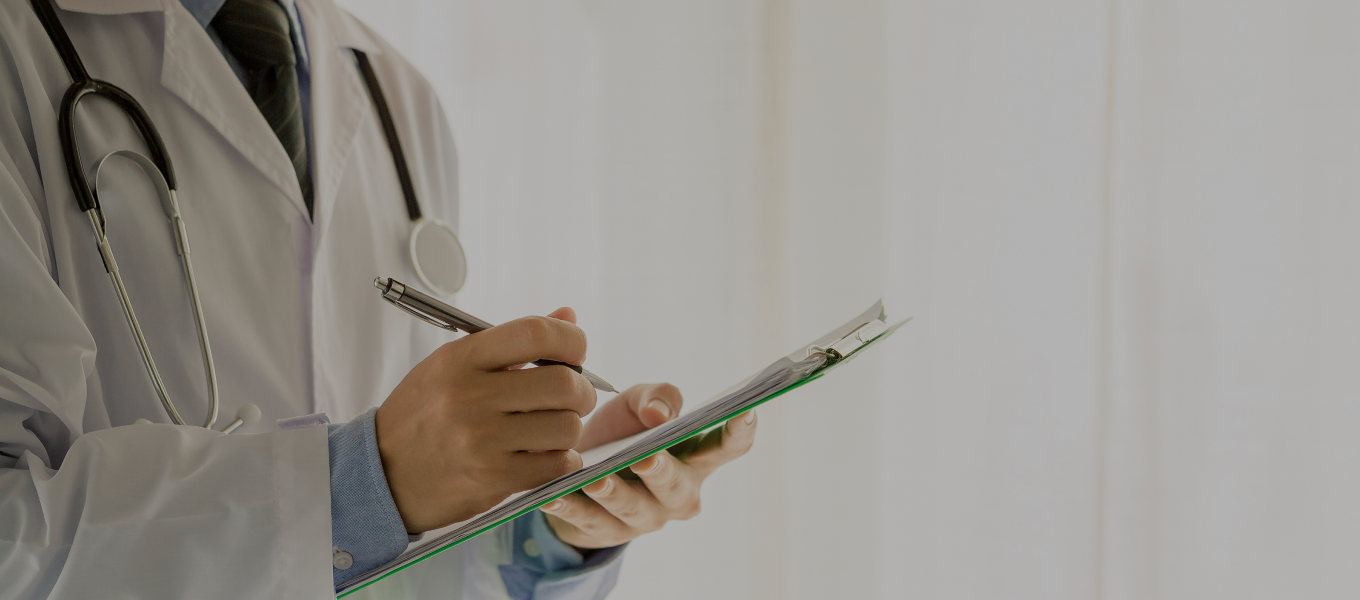
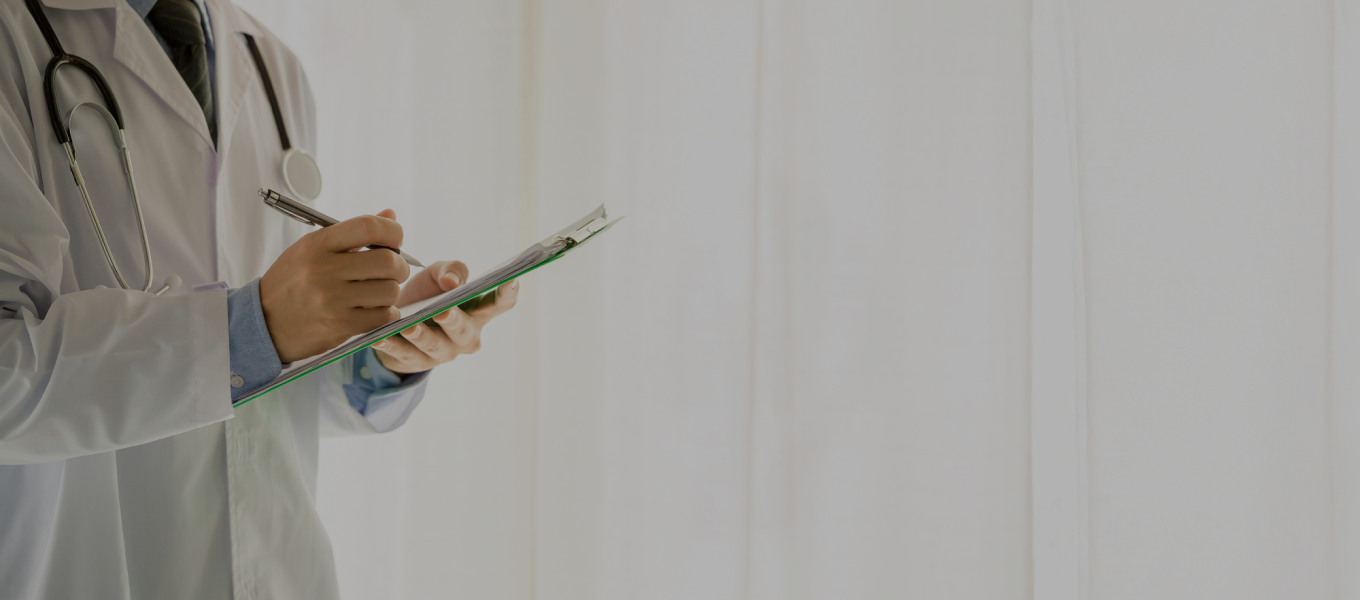
panel 이미지 교체, 키워드, 링크 추가, partners 로고 애니메이션 수정

Changed region(s): [[0.0, 0.0, 0.6794, 1.0], [0.5559, 0.0, 0.5868, 0.09]]

diff --git a/src/pages/Home/Test.js b/src/pages/Home/Test.js
@@ -83,6 +83,20 @@ const Test = () => {
   const [currentSlide, setCurrentSlide] = useState(0);
   const [opacity, setOpacity] = useState(1);
 
+  const imagePaths = [
+    logo01148_372, image8149_431, image8149_433, image8149_435, image8149_437,
+    image15149_461, image149_449, image149_451, image149_445, image156_466,
+    image156_475, image158_584, image16158_586, logo1158_588, image158_590,
+    image158_592, image158_594, image158_596, image158_598, image20158_600,
+    image158_602, image158_609, image16158_611, logo1158_613, logo1161_860,
+    image158_615, image158_617, image158_619, image158_621, image20158_625,
+    image158_623, image161_853, image161_835, image161_837, logo1161_839,
+    image161_856, image161_849, image161_841, logo161_861, image161_851,
+    image161_843, image161_847, image161_845
+  ]
+
+  
+
   const slides = [
     {
       image: MedicalDiscussionImage2,
@@ -145,6 +159,9 @@ const Test = () => {
       title1: "평등한 치료의 기회를 향한",
       title2: "의약사업",
       description: "수많은 사람들이 난치병과 희귀질환으로 고통 받고 있지만 희귀질환을 진단하는 것은쉽지 않을 뿐더러 치료제를 구하는 것은 더더욱 어렵습니다.\n리퓨어는 환자의 아픔과 고통을 이해하고 해결하기 위해 최선을 다할 것입니다.",
+      keyword : ["의약품 수입ㆍ유통", "위탁 개발 생산","신약개발"],
+      objectPosition : '5%',
+      link:'/business-medicine'
     },
     {
       image: panel2,
@@ -152,6 +169,9 @@ const Test = () => {
       title1: "반려동물의 건강하고 행복한 삶을 위한",
       title2: "동물사업",
       description: "반려동물을 키우는 가구가 급속도로 늘어나는 추세지만 여전히 반려동물을 제대로 케어해주지 못하고 있습니다.\n반려동물이 건강하게 우리 곁에 머물 수 있도록 정확한 진단을 바탕으로 동물의약품과 식품, 서비스를 제공합니다.",
+      keyword : ["의약품 수입ㆍ유통", "의약부외품 수입ㆍ유통", "동물 식물 수입ㆍ유통", "동물 의료기기 수입ㆍ유통"],
+      objectPosition : '43%',
+      link:'/business-animal'
     },
     {
       image: panel3,
@@ -159,6 +179,9 @@ const Test = () => {
       title1: "삶의 질을 높이는 스마트한 건강관리",
       title2: "헬스케어사업",
       description: "의료인과 만성 질환자를 온라인으로 연결해주는 헬스케어 플랫폼으로 고령화와 잘못된 생활습관으로 인해 급속하게 늘고있는\n만성질환자에게 리퓨어는 의료 네트워크를 활용하여 복약, 운동, 식이, 생활 습관 전반에 대한 통합 멘토링을 제공합니다.",
+      keyword : ["질환관리 플랫폼", "원격진료 플랫폼","디지털치료제"],
+      objectPosition : '40%',
+      link:'/business-healthcare'
     },
     {
       image: panel4,
@@ -166,6 +189,9 @@ const Test = () => {
       title1: "인류 건강을 책임지기 위한 신속정확한",
       title2: "진단사업",
       description: "정확한 진단은 오진을 줄이고 병증에 올바르게 대처할 수 있게 합니다.\n리퓨어의 신속하고 정확한 진단은 치료 및 골든타임을 놓치지 않도록 유전자, 오믹스, IT기반 등의 검사로 인류를 책임집니다.",
+      keyword : ["유전자 검사", "다중오믹스 플랫폼","진단시약ㆍ기기"],
+      objectPosition : '5%',
+      link:'/business-dig'
     },
   ];
   
@@ -229,7 +255,7 @@ const Test = () => {
               key={index}
               onClick={() => handleSetSlide(index)}
               className={`w-4 h-4 rounded-full cursor-pointer ${
-                index === currentSlide ? 'bg-blue-500' : 'bg-gray-400'
+                index === currentSlide ? 'bg-blue-500' : 'bg-white'
               }`}
             ></div>
           ))}
@@ -247,7 +273,7 @@ const Test = () => {
       </div>
 
 {/*패널 */}
-<div className="absolute -translate-x-1/2 left-1/2 top-[354px] max-w-[1920px] min-w-[1920px] flex flex-row items-center justify-center gap-[18px] overflow-hidden  whitespace-pre-wrap" style={{width: "100%"}}>
+<div className="absolute -translate-x-1/2 left-1/2 top-[354px] max-w-[1920px] min-w-[1920px] flex flex-row items-center justify-center gap-[18px] overflow-hidden whitespace-pre-wrap" style={{width: "100%"}}>
   {/* 큰 패널 */}
   {panels.map((panel, index) => {
     const isSelected = selectedPanel === index;
@@ -255,41 +281,65 @@ const Test = () => {
     const isRight = index > selectedPanel;
 
     return (
+      
       <div
         key={index}
-        className={`relative ${
+        className={`relative h-[600px] ${
           isSelected
-            ? "w-[1360px] h-[600px]"
-            : "w-[180px] h-[600px]"
-        } transition-all duration-500 transform ${
-          isLeft
-            ? `-translate-x-[${(selectedPanel - index) * 220}px]`
-            : isRight
-            ? `translate-x-[${(index - selectedPanel) * 220}px]`
-            : "translate-x-0"
-        }`}
+            ? "w-[1360px]"
+            : "w-[185px]"
+        } transition-all duration-1000 overflow-hidden`}
         onClick={() => handlePanelClick(index)}
       >
+        
         {/* 패널 이미지 */}
-        <img
+        {/* <img
           className="absolute w-full h-full object-cover"
           src={isSelected ? panel.image : panel.smallImage}
           alt={`Panel ${index + 1}`}
-        />
+        /> */}
+
+
+        {isSelected && (
+          <Link to = {panel.link} >
+          <img
+            className="absolute w-full h-full object-cover"
+            src={panel.image}
+            alt={`Panel ${index + 1}`}
+            style={{
+              opacity: isSelected ? 1 : 0,
+              transition: 'opacity 1s ease, transform 1s ease', // opacity와 transform에 대한 전환 추가
+              transform: isSelected ? 'scale(1)' : 'scale(1)', // 확대 효과 추가
+            }}
+          />
+          </Link>
+        )}
+        {/* 작은 이미지 */}
+        {!isSelected && (
+            <img
+              className="absolute h-full w-[1360px] overflow-hidden"
+              //src={panel.smallImage}
+              src={panel.image}
+              alt={`Panel ${index + 1}`}
+              style={{
+                opacity: isSelected ? 0 : 1,
+                objectFit: 'cover', // 이미지가 요소를 완전히 채우도록 설정
+                objectPosition: panel.objectPosition, // 보이도록 할 이미지의 위치 조정 (필요에 따라 수정)
+                transform: 'scale(1)', // 기본 크기 유지
+              }}
+            />
+        )}
+
          {/* 설명 - 오른쪽 상단 */}
          {isSelected && (
           
           <div className="absolute right-[60px] top-[60px] w-[1240px] flex flex-row items-center justify-end">
           <div className="flex flex-row items-center justify-start gap-[10px]">
-            <div className="flex flex-row items-center justify-center py-[6px] px-[15px] border-[2px] border-solid border-[#fff] rounded-[50px]">
-              <div className="text-[14px] leading-[20px] font-['Pretendard'] font-bold text-[#fff] whitespace-nowrap">의약품 수입 유통</div>
-            </div>
-            <div className="flex flex-row items-center justify-center py-[6px] px-[15px] border-[2px] border-solid border-[#fff] rounded-[50px]">
-              <div className="text-[14px] leading-[20px] font-['Pretendard'] font-bold text-[#fff] whitespace-nowrap">위탁 개발 생산</div>
-            </div>
-            <div className="flex flex-row items-center justify-center py-[6px] px-[15px] border-[2px] border-solid border-[#fff] rounded-[50px]">
-              <div className="text-[14px] leading-[20px] font-['Pretendard'] font-bold text-[#fff] whitespace-nowrap">신약개발</div>
-            </div>
+            {panel.keyword.map((keyword,index) => (
+              <div key = {index} className="flex flex-row items-center justify-center py-[6px] px-[15px] border-[2px] border-solid border-[#fff] rounded-[50px]">
+                <div className="text-[14px] leading-[20px] font-['Pretendard'] font-bold text-[#fff] whitespace-nowrap">{keyword}</div>
+              </div>
+            ))}
           </div>
           
           <div className="absolute -translate-x-1/2 left-[calc(50%+220px)] top-[52px] w-[800px] text-[15px] font-['Pretendard'] text-[#fff] text-right">
@@ -305,22 +355,12 @@ const Test = () => {
           //   <img src={ic_arrow} />
           // </div>
             <div className="absolute left-[60px] bottom-[60px] text-white flex flex-col items-start justify-center">
-                <div className="text-[50px] font-['Pretendard'] font-extrabold text-[#fff] h-[64px]">{panel.title1}</div>
+                <div className="text-[50px] font-['Pretendard'] font-extrabold text-[#fff] h-[64px] text-nowrap">{panel.title1}</div>
                 <div className="flex flex-row items-center justify-start gap-[24px] h-[64px]">
                     <div className="text-[50px] font-['Pretendard'] font-extrabold text-[#fff] ">{panel.title2}</div>
                     <img width="54" height="54" src={ic_arrow}></img>
                 </div>
             </div>
-
-
-
-
-
-
-
-
-
-
         )}
       </div>
     );
@@ -339,163 +379,20 @@ const Test = () => {
 
      {/* footer */}
     <div className="w-[1920px] flex flex-row items-start justify-center overflow-hidden">
-      <div className="flex-1 flex flex-row items-start justify-center py-[24px] px-[160px] bg-[#fff] overflow-hidden">
-        <div id='partners' className="flex-1 flex flex-row items-center justify-center">
-          {/* <div className="h-[100px] flex flex-row items-center justify-center pt-0 pr-0 pb-0 pl-[100px]">
-            <div className="flex flex-col items-center justify-center">
-              <div className="w-[48px] h-[48px] shrink-0 flex flex-row items-center justify-center border-[1px] border-solid border-[#122e70] rounded-[28px]">
-                <div className="relative w-[24px] h-[24px] shrink-0 overflow-hidden">
-                  <div className="absolute left-0 top-0 w-[24px] h-[24px] text-[20px] leading-[140%] font-['Inter'] font-bold text-[#122e70] text-center flex flex-col justify-center">←</div>
-                </div>
-              </div>
+      <div className="flex-1 flex flex-row items-center justify-start py-[10px] px-[160px] bg-[#fff] overflow-hidden">
+        <div className="flex-1 flex flex-row items-center justify-center animate-scroll">
+          {imagePaths.map((src, index)=> (
+            <div key={index} className="w-[184px] h-[72px] shrink-0 flex flex-row items-center justify-center">
+              <img src={src}></img>
             </div>
-          </div> */}
-          {/* <div className="flex-1 flex flex-row items-start justify-start"> 
-            <div className="flex-1 self-stretch flex flex-row items-start justify-start overflow-hidden"> */}
-              <div className="w-[184px] h-[72px] shrink-0 flex flex-row items-center justify-center">
-                <img src={logo01148_372}></img>
-              </div>
-              <div className="w-[184px] h-[72px] shrink-0 flex flex-row items-center justify-center">
-                <img src={image8149_431}></img>
-              </div>
-              <div className="w-[184px] h-[72px] shrink-0 flex flex-row items-center justify-center">
-                <img src={image8149_433}></img>
-              </div>
-              <div className="w-[184px] h-[72px] shrink-0 flex flex-row items-center justify-center">
-                <img src={image8149_435}></img>
-              </div>
-              <div className="w-[184px] h-[72px] shrink-0 flex flex-row items-center justify-center">
-                <img src={image8149_437}></img>
-              </div>
-              <div className="w-[184px] h-[72px] shrink-0 flex flex-row items-center justify-center">
-                <img src={image15149_461}></img>
-              </div>
-              <div className="w-[184px] h-[72px] shrink-0 flex flex-row items-center justify-center">
-                <img src={image149_449}></img>
-              </div>
-              <div className="w-[184px] h-[72px] shrink-0 flex flex-row items-center justify-center">
-                <img src={image149_451}></img>
-              </div>
-              <div className="w-[184px] h-[72px] shrink-0 flex flex-row items-center justify-center">
-                <img src={image149_445}></img>
-              </div>
-              <div className="w-[184px] h-[72px] shrink-0 flex flex-row items-center justify-center">
-                <img src={image156_466}></img>
-              </div>
-
-              <div className="w-[184px] h-[72px] shrink-0 flex flex-row items-center justify-center">
-                <img src={image156_475}></img>
-              </div>
-              <div className="w-[184px] h-[72px] shrink-0 flex flex-row items-center justify-center">
-                <img src={image158_584}></img>
-              </div>
-              <div className="w-[184px] h-[72px] shrink-0 flex flex-row items-center justify-center">
-                <img src={image16158_586}></img>
-              </div>
-              <div className="w-[184px] h-[72px] shrink-0 flex flex-row items-center justify-center">
-                <img src={logo1158_588}></img>
-              </div>
-              <div className="w-[184px] h-[72px] shrink-0 flex flex-row items-center justify-center">
-                <img src={image158_590}></img>
-              </div>
-              <div className="w-[184px] h-[72px] shrink-0 flex flex-row items-center justify-center">
-                <img src={image158_592}></img>
-              </div>
-              <div className="w-[184px] h-[72px] shrink-0 flex flex-row items-center justify-center">
-                <img src={image158_594}></img>
-              </div>
-              <div className="w-[184px] h-[72px] shrink-0 flex flex-row items-center justify-center">
-                <img src={image158_596}></img>
-              </div>
-              <div className="w-[184px] h-[72px] shrink-0 flex flex-row items-center justify-center">
-                <img src={image158_598}></img>
-              </div>
-              <div className="w-[184px] h-[72px] shrink-0 flex flex-row items-center justify-center">
-                <img src={image20158_600}></img>
-              </div>
-
-              <div className="w-[184px] h-[72px] shrink-0 flex flex-row items-center justify-center">
-                <img src={image158_602}></img>
-              </div>
-              <div className="w-[184px] h-[72px] shrink-0 flex flex-row items-center justify-center">
-                <img src={image158_609}></img>
-              </div>
-              <div className="w-[184px] h-[72px] shrink-0 flex flex-row items-center justify-center">
-                <img src={image16158_611}></img>
-              </div>
-              <div className="w-[184px] h-[72px] shrink-0 flex flex-row items-center justify-center">
-                <img src={logo1158_613}></img>
-              </div>
-              <div className="w-[184px] h-[72px] shrink-0 flex flex-row items-center justify-center">
-                <img src={logo1161_860}></img>
-              </div>
-              <div className="w-[184px] h-[72px] shrink-0 flex flex-row items-center justify-center">
-                <img src={image158_615}></img>
-              </div>
-              <div className="w-[184px] h-[72px] shrink-0 flex flex-row items-center justify-center">
-                <img src={image158_617}></img>
-              </div>
-              <div className="w-[184px] h-[72px] shrink-0 flex flex-row items-center justify-center">
-                <img src={image158_619}></img>
-              </div>
-              <div className="w-[184px] h-[72px] shrink-0 flex flex-row items-center justify-center">
-                <img src={image158_621}></img>
-              </div>
-              <div className="w-[184px] h-[72px] shrink-0 flex flex-row items-center justify-center">
-                <img src={image20158_625}></img>
-              </div>
-
-              <div className="w-[184px] h-[72px] shrink-0 flex flex-row items-center justify-center">
-                <img src={image158_623}></img>
-              </div>
-              <div className="w-[184px] h-[72px] shrink-0 flex flex-row items-center justify-center">
-                <img src={image161_853}></img>
-              </div>
-              <div className="w-[184px] h-[72px] shrink-0 flex flex-row items-center justify-center">
-                <img src={image161_835}></img>
-              </div>
-              <div className="w-[184px] h-[72px] shrink-0 flex flex-row items-center justify-center">
-                <img src={image161_837}></img>
-              </div>
-              <div className="w-[184px] h-[72px] shrink-0 flex flex-row items-center justify-center">
-                <img src={logo1161_839}></img>
-              </div>
-              <div className="w-[184px] h-[72px] shrink-0 flex flex-row items-center justify-center">
-                <img src={image161_856}></img>
-              </div>
-              <div className="w-[184px] h-[72px] shrink-0 flex flex-row items-center justify-center">
-                <img src={image161_849}></img>
-              </div>
-              <div className="w-[184px] h-[72px] shrink-0 flex flex-row items-center justify-center">
-                <img src={image161_841}></img>
-              </div>
-              <div className="w-[184px] h-[72px] shrink-0 flex flex-row items-center justify-center">
-                <img src={logo161_861}></img>
-              </div>
-              <div className="w-[184px] h-[72px] shrink-0 flex flex-row items-center justify-center">
-                <img src={image161_851}></img>
-              </div>
-
-              <div className="w-[184px] h-[72px] shrink-0 flex flex-row items-center justify-center ">
-                <img src={image161_843}></img>
-              </div>
-              <div className="w-[184px] h-[72px] shrink-0 flex flex-row items-center justify-center">
-                <img src={image161_847}></img>
-              </div>
-              <div className="w-[184px] h-[72px] shrink-0 flex flex-row items-center justify-center">
-                <img src={image161_845}></img>
-              </div>
-            {/* </div> */}
-          {/* </div> */}
-          {/* <div className="self-stretch flex flex-row items-center justify-center pt-0 pr-[100px] pb-0 pl-0">
-            <div className="flex flex-col items-center justify-center">
-              <div className="w-[48px] h-[48px] shrink-0 flex flex-row items-center justify-center border-[1px] border-solid border-[#122e70] rounded-[28px]">
-                <div className="relative w-[24px] h-[24px] shrink-0 overflow-hidden">
-                  <div className="absolute left-0 top-0 w-[24px] h-[24px] text-[20px] leading-[140%] font-['Inter'] font-bold text-[#122e70] text-center flex flex-col justify-center">→</div>
-                </div>
-              </div>
+          ))}
+        </div>
+        <div className="flex-1 flex flex-row items-center justify-center animate-scroll">
+          {imagePaths.map((src, index)=> (
+            <div key={`repeat-${index}`} className="w-[184px] h-[72px] shrink-0 flex flex-row items-center justify-center">
+              <img src={src}></img>
             </div>
-          </div> */}
+          ))}
         </div>
       </div>
     </div>

diff --git a/src/pages/Home/Home.css b/src/pages/Home/Home.css
@@ -1,6 +1,8 @@
-#partners {
-    animation: webscrollAnimation 120s linear infinite;
+
+.animate-scroll  {
+    animation: webscrollAnimation 150s linear infinite;
 }
+
 
 @keyframes webscrollAnimation {
     0% {
@@ -10,3 +12,4 @@
         transform: translateX(-100%);
     }
 }
+
